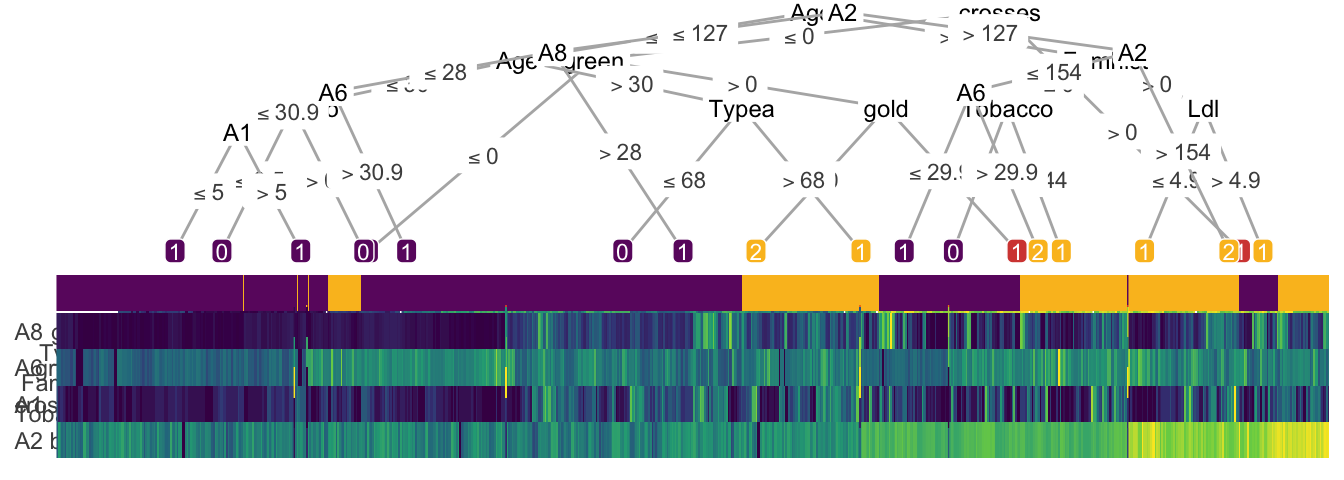
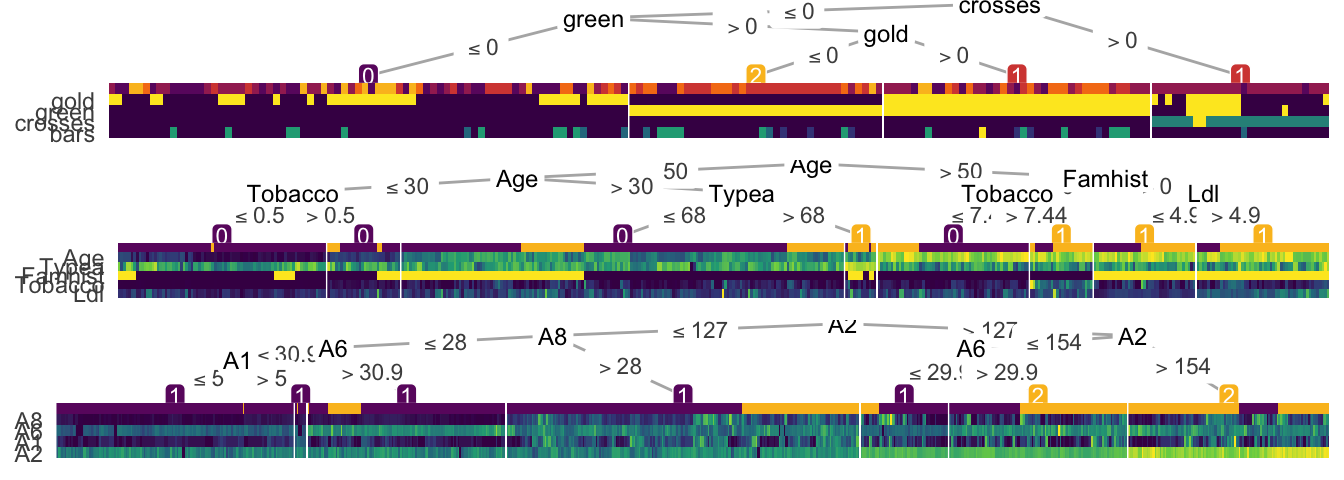
deploy: 57435b077987927f29f6877d833be21db29f7069

diff --git a/articles/explore.html b/articles/explore.html
@@ -96,7 +96,8 @@
     
 <p><strong>treeheatr</strong> displays a more interpretable decision tree visualization by integrating a heatmap at its terminal nodes. Let’s explore the package <strong>treeheatr</strong> a little deeper and see what it can do!</p>
 <div class="sourceCode" id="cb1"><html><body><pre class="r"><span class="fu"><a href="https://rdrr.io/r/base/library.html">library</a></span>(<span class="no">treeheatr</span>)
-<span class="fu"><a href="https://rdrr.io/r/base/library.html">library</a></span>(<span class="no">dplyr</span>)</pre></body></html></div>
+<span class="fu"><a href="https://rdrr.io/r/base/library.html">library</a></span>(<span class="no">dplyr</span>)
+<span class="fu"><a href="https://rdrr.io/r/base/library.html">library</a></span>(<span class="no">cowplot</span>)</pre></body></html></div>
 <div id="lets-begin" class="section level2">
 <h2 class="hasAnchor">
 <a href="#lets-begin" class="anchor"></a>Let’s begin</h2>
@@ -141,29 +142,26 @@
   <span class="kw">target_lab</span> <span class="kw">=</span> <span class="st">'target'</span>,
   <span class="kw">target_lab_disp</span> <span class="kw">=</span> <span class="st">''</span>,
   <span class="kw">heat_rel_height</span> <span class="kw">=</span> <span class="fl">0.4</span>, <span class="kw">tree_space_bottom</span> <span class="kw">=</span> <span class="fl">0.1</span>,
-  <span class="kw">terminal_vars</span> <span class="kw">=</span> <span class="fu"><a href="https://rdrr.io/r/base/list.html">list</a></span>(<span class="kw">label.padding</span> <span class="kw">=</span> <span class="fu">unit</span>(<span class="fl">0.1</span>, <span class="st">"lines"</span>), <span class="kw">size</span> <span class="kw">=</span> <span class="fl">3</span>, <span class="kw">color</span> <span class="kw">=</span> <span class="st">'white'</span>))</pre></body></html></div>
+  <span class="kw">terminal_vars</span> <span class="kw">=</span> <span class="fu"><a href="https://rdrr.io/r/base/list.html">list</a></span>(<span class="kw">label.padding</span> <span class="kw">=</span> <span class="fu">unit</span>(<span class="fl">0.1</span>, <span class="st">"lines"</span>), <span class="kw">size</span> <span class="kw">=</span> <span class="fl">3</span>, <span class="kw">color</span> <span class="kw">=</span> <span class="st">'white'</span>)) <span class="kw">%&gt;%</span>
+  <span class="kw pkg">cowplot</span><span class="kw ns">::</span><span class="fu"><a href="https://rdrr.io/pkg/cowplot/man/plot_grid.html">plot_grid</a></span>(<span class="kw">plotlist</span> <span class="kw">=</span> <span class="no">.</span>, <span class="kw">ncol</span> <span class="kw">=</span> <span class="fl">1</span>)</pre></body></html></div>
 <p><img src="explore_files/figure-html/unnamed-chunk-6-1.png" width="672"></p>
-<pre><code>#&gt; [[1]]
-#&gt; 
-#&gt; [[2]]
-#&gt; 
-#&gt; [[3]]</code></pre>
 </div>
 <div id="smart-node-layout" class="section level2">
 <h2 class="hasAnchor">
 <a href="#smart-node-layout" class="anchor"></a>Smart node layout</h2>
 <p>These extreme visualizations may not be very interpretable but serves the purpose of showing the ability to generalize of the node layout when the tree grows in size. The implemented smart layout weighs the x-position of the parent node according to the level of the child nodes as to avoid crossing of tree branches. This relative weight can be adjusted with the <code>lev_fac</code> parameter in <code><a href="https://rdrr.io/pkg/treeheatr/man/heat_tree.html">heat_tree()</a></code>. The default <code>lev_fac = 1.3</code> seems to provide aesthetically pleasing trees, independent of the tree size.</p>
-<div class="sourceCode" id="cb8"><html><body><pre class="r"><span class="co"># waveform has 5000 observations and 40 features</span>
+<div class="sourceCode" id="cb7"><html><body><pre class="r"><span class="co"># waveform has 5000 observations and 40 features</span>
 <span class="co"># so this computation may take up to a minute or two.</span>
 
 <span class="fu"><a href="https://rdrr.io/pkg/treeheatr/man/heat_tree.html">heat_tree</a></span>(<span class="no">waveform</span>, <span class="kw">target_lab</span> <span class="kw">=</span> <span class="st">'target'</span>, <span class="kw">heat_rel_height</span> <span class="kw">=</span> <span class="fl">0.35</span>)</pre></body></html></div>
 <p><img src="explore_files/figure-html/unnamed-chunk-7-1.png" width="864"></p>
 <p>In this next figure, on the top, <code>lev_fac = 1</code> makes parent node perfectly in the middle of child nodes (note a few branch crossing), which contrasts <code>lev_fac = 1.3</code> (default) on the bottom.</p>
-<div class="sourceCode" id="cb9"><html><body><pre class="r"># cowplot::plot_grid(
-#   heat_tree(wine_quality_red, target_lab = 'target', lev_fac = 1),
-#   heat_tree(wine_quality_red, target_lab = 'target'),
-#   ncol = 1,
-#   labels = c('lev_fac = 1', 'lev_fac = 1.3'))</pre></body></html></div>
+<div class="sourceCode" id="cb8"><html><body><pre class="r"><span class="kw pkg">cowplot</span><span class="kw ns">::</span><span class="fu"><a href="https://rdrr.io/pkg/cowplot/man/plot_grid.html">plot_grid</a></span>(
+  <span class="fu"><a href="https://rdrr.io/pkg/treeheatr/man/heat_tree.html">heat_tree</a></span>(<span class="no">wine_quality_red</span>, <span class="kw">target_lab</span> <span class="kw">=</span> <span class="st">'target'</span>, <span class="kw">lev_fac</span> <span class="kw">=</span> <span class="fl">1</span>),
+  <span class="fu"><a href="https://rdrr.io/pkg/treeheatr/man/heat_tree.html">heat_tree</a></span>(<span class="no">wine_quality_red</span>, <span class="kw">target_lab</span> <span class="kw">=</span> <span class="st">'target'</span>),
+  <span class="kw">ncol</span> <span class="kw">=</span> <span class="fl">1</span>,
+  <span class="kw">labels</span> <span class="kw">=</span> <span class="fu"><a href="https://rdrr.io/r/base/c.html">c</a></span>(<span class="st">'lev_fac = 1'</span>, <span class="st">'lev_fac = 1.3'</span>))</pre></body></html></div>
+<p><img src="explore_files/figure-html/unnamed-chunk-8-1.png" width="864"></p>
 </div>
 <div id="clustering" class="section level2">
 <h2 class="hasAnchor">
@@ -178,7 +176,7 @@
 <p><strong>treeheatr</strong> supports mixed data types.</p>
 <p>For continuous variables, we can choose to either <em>scale</em> (subtract the mean and divide by the standard deviation) or <em>normalize</em> (subtract the min and divide by the max) each variable. Depending on what we want to show in the heatmap, one transformation method can be more effective than the other. Details on the strengths and weaknesses of different types of data transformation for heatmap display can be found in <a href="https://cran.r-project.org/package=heatmaply/vignettes/heatmaply.html#data-transformation-scaling-normalize-and-percentize">this vignette</a> of the <strong>heatmaply</strong> package.</p>
 <p>Let’s take a closer look at how it handles a dataset like Titanic with categorical variables (<code>Class</code>, <code>Sex</code>, <code>Embarked</code>) and continuous variables (others). We <strong>highly recommend</strong> that, when dealing with mixed data types, the user supply <code>feat_types</code> to indicate whether a feature should be considered ‘numeric’ (continuous) or ‘factor’ (categorical) as shown below. When <code>feat_types</code> is not specified, <strong>treeheatr</strong> automatically inferred each column type from the original dataset.</p>
-<div class="sourceCode" id="cb10"><html><body><pre class="r"><span class="no">dat_raw</span> <span class="kw">&lt;-</span> <span class="no">titanic</span> <span class="kw">%&gt;%</span>
+<div class="sourceCode" id="cb9"><html><body><pre class="r"><span class="no">dat_raw</span> <span class="kw">&lt;-</span> <span class="no">titanic</span> <span class="kw">%&gt;%</span>
   <span class="kw pkg">dplyr</span><span class="kw ns">::</span><span class="fu"><a href="https://dplyr.tidyverse.org/reference/select.html">select</a></span>(<span class="no">Survived</span>, <span class="no">Sex</span>, <span class="no">Pclass</span>, <span class="no">Age</span>, <span class="no">SibSp</span>, <span class="no">Parch</span>, <span class="no">Fare</span>, <span class="no">Embarked</span>)
 
 <span class="fu"><a href="https://rdrr.io/pkg/treeheatr/man/heat_tree.html">heat_tree</a></span>(
@@ -198,6 +196,10 @@
 <span class="co">#&gt; Warning in cluster::daisy(., metric = "gower"): binary variable(s) 2 treated as</span>
 <span class="co">#&gt; interval scaled</span>
 <span class="co">#&gt; Warning in cluster::daisy(., metric = "gower"): binary variable(s) 4 treated as</span>
+<span class="co">#&gt; interval scaled</span>
+<span class="co">#&gt; Warning in cluster::daisy(., metric = "gower"): binary variable(s) 5 treated as</span>
+<span class="co">#&gt; interval scaled</span>
+<span class="co">#&gt; Warning in cluster::daisy(., metric = "gower"): binary variable(s) 2 treated as</span>
 <span class="co">#&gt; interval scaled</span></pre></body></html></div>
 <p><img src="explore_files/figure-html/unnamed-chunk-9-1.png" width="864"></p>
 </div>
@@ -205,7 +207,7 @@
 <h2 class="hasAnchor">
 <a href="#regression" class="anchor"></a>Regression</h2>
 <p>In general, compared to classification, regression task is more difficult to interpret with a decision tree. However, a heatmap may shed some light on how the tree groups the samples in different terminal nodes. Also, removing the terminal node label may show the groups better. Here are a few examples:</p>
-<div class="sourceCode" id="cb11"><html><body><pre class="r"><span class="fu"><a href="https://rdrr.io/pkg/treeheatr/man/heat_tree.html">heat_tree</a></span>(<span class="kw">data</span> <span class="kw">=</span> <span class="no">galaxy</span>,
+<div class="sourceCode" id="cb10"><html><body><pre class="r"><span class="fu"><a href="https://rdrr.io/pkg/treeheatr/man/heat_tree.html">heat_tree</a></span>(<span class="kw">data</span> <span class="kw">=</span> <span class="no">galaxy</span>,
           <span class="kw">target_lab</span> <span class="kw">=</span> <span class="st">'target'</span>,
           <span class="kw">task</span> <span class="kw">=</span> <span class="st">'regression'</span>,
           <span class="kw">terminal_vars</span> <span class="kw">=</span> <span class="kw">NULL</span>,
@@ -217,7 +219,7 @@
 <span class="co">#&gt; interval scaled</span></pre></body></html></div>
 <p><img src="explore_files/figure-html/unnamed-chunk-10-1.png" width="672"></p>
 <p>For illustration purposes, we’re only showing the top 300 samples of the <em>pollen</em> dataset below.</p>
-<div class="sourceCode" id="cb12"><html><body><pre class="r"><span class="fu"><a href="https://rdrr.io/pkg/treeheatr/man/heat_tree.html">heat_tree</a></span>(<span class="kw">data</span> <span class="kw">=</span> <span class="no">pollen</span>[<span class="fl">1</span>:<span class="fl">300</span>, ],
+<div class="sourceCode" id="cb11"><html><body><pre class="r"><span class="fu"><a href="https://rdrr.io/pkg/treeheatr/man/heat_tree.html">heat_tree</a></span>(<span class="kw">data</span> <span class="kw">=</span> <span class="no">pollen</span>[<span class="fl">1</span>:<span class="fl">300</span>, ],
           <span class="kw">target_lab</span> <span class="kw">=</span> <span class="st">'target'</span>,
           <span class="kw">task</span> <span class="kw">=</span> <span class="st">'regression'</span>)</pre></body></html></div>
 <p><img src="explore_files/figure-html/unnamed-chunk-11-1.png" width="672"></p>
